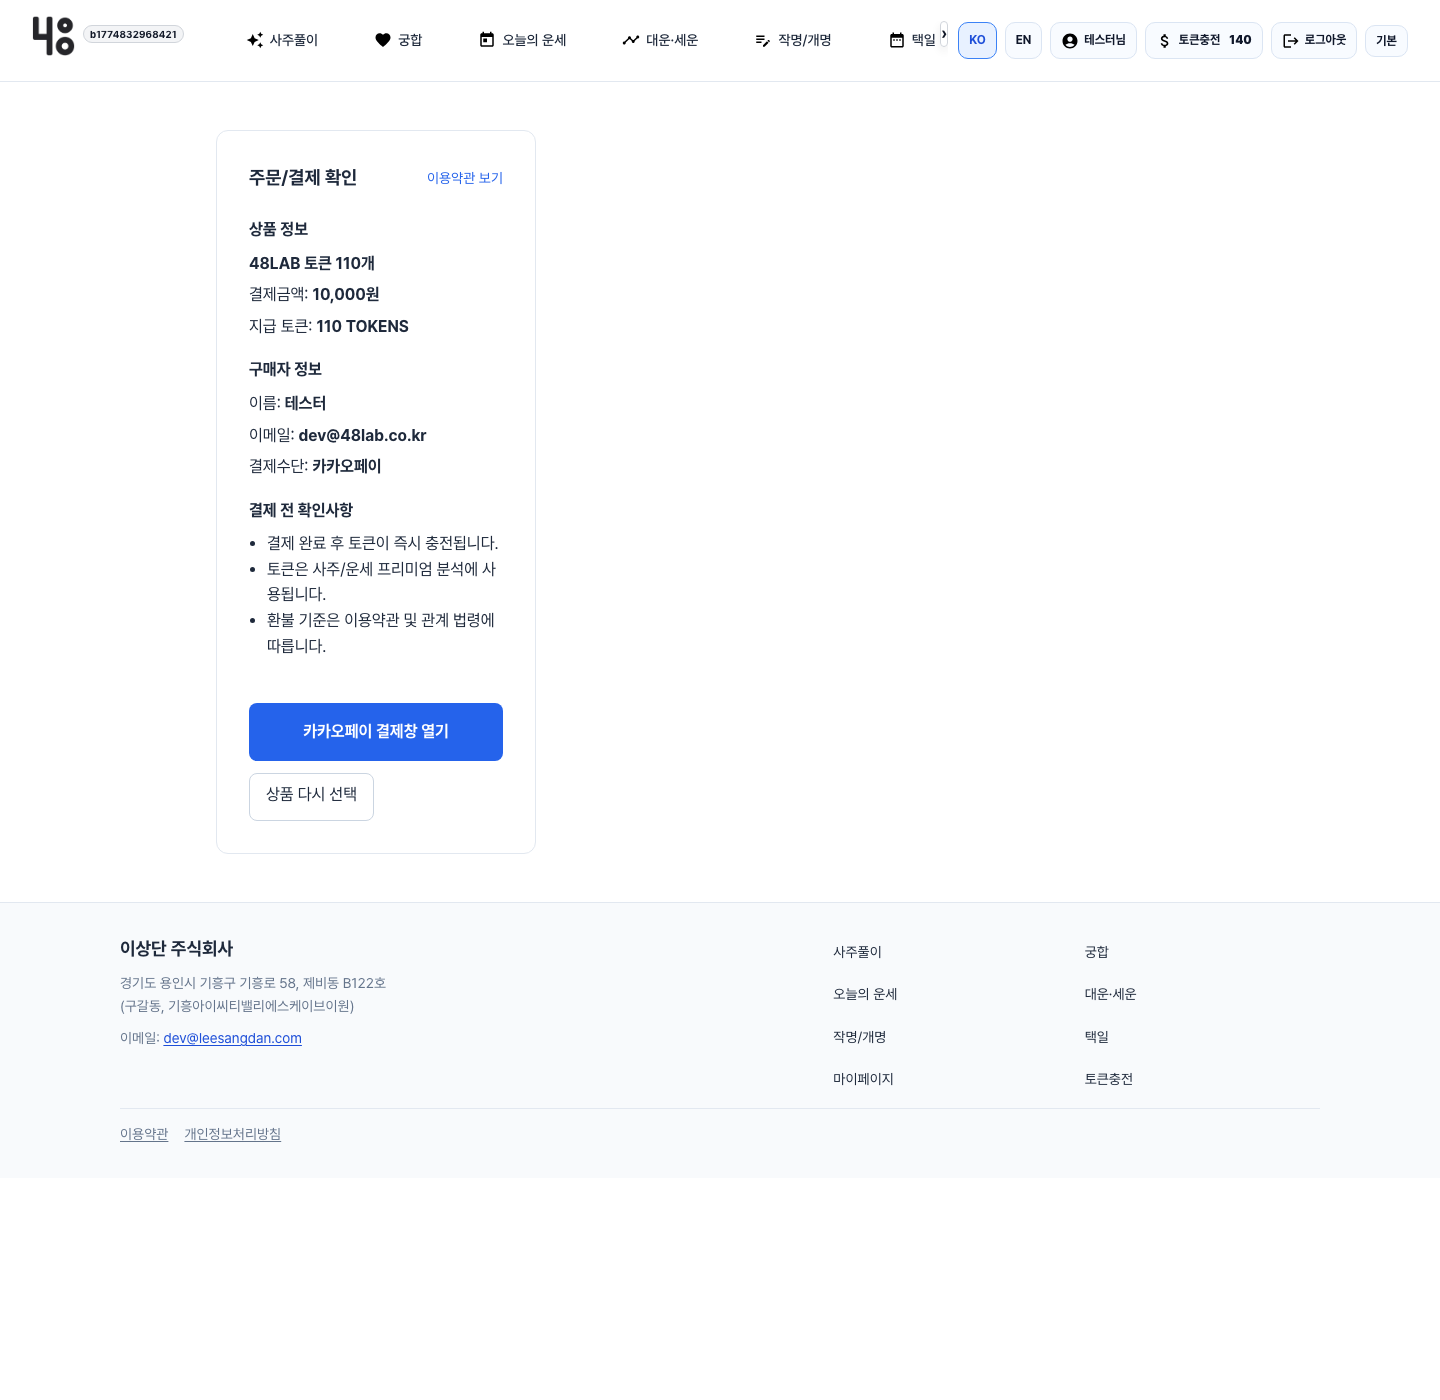
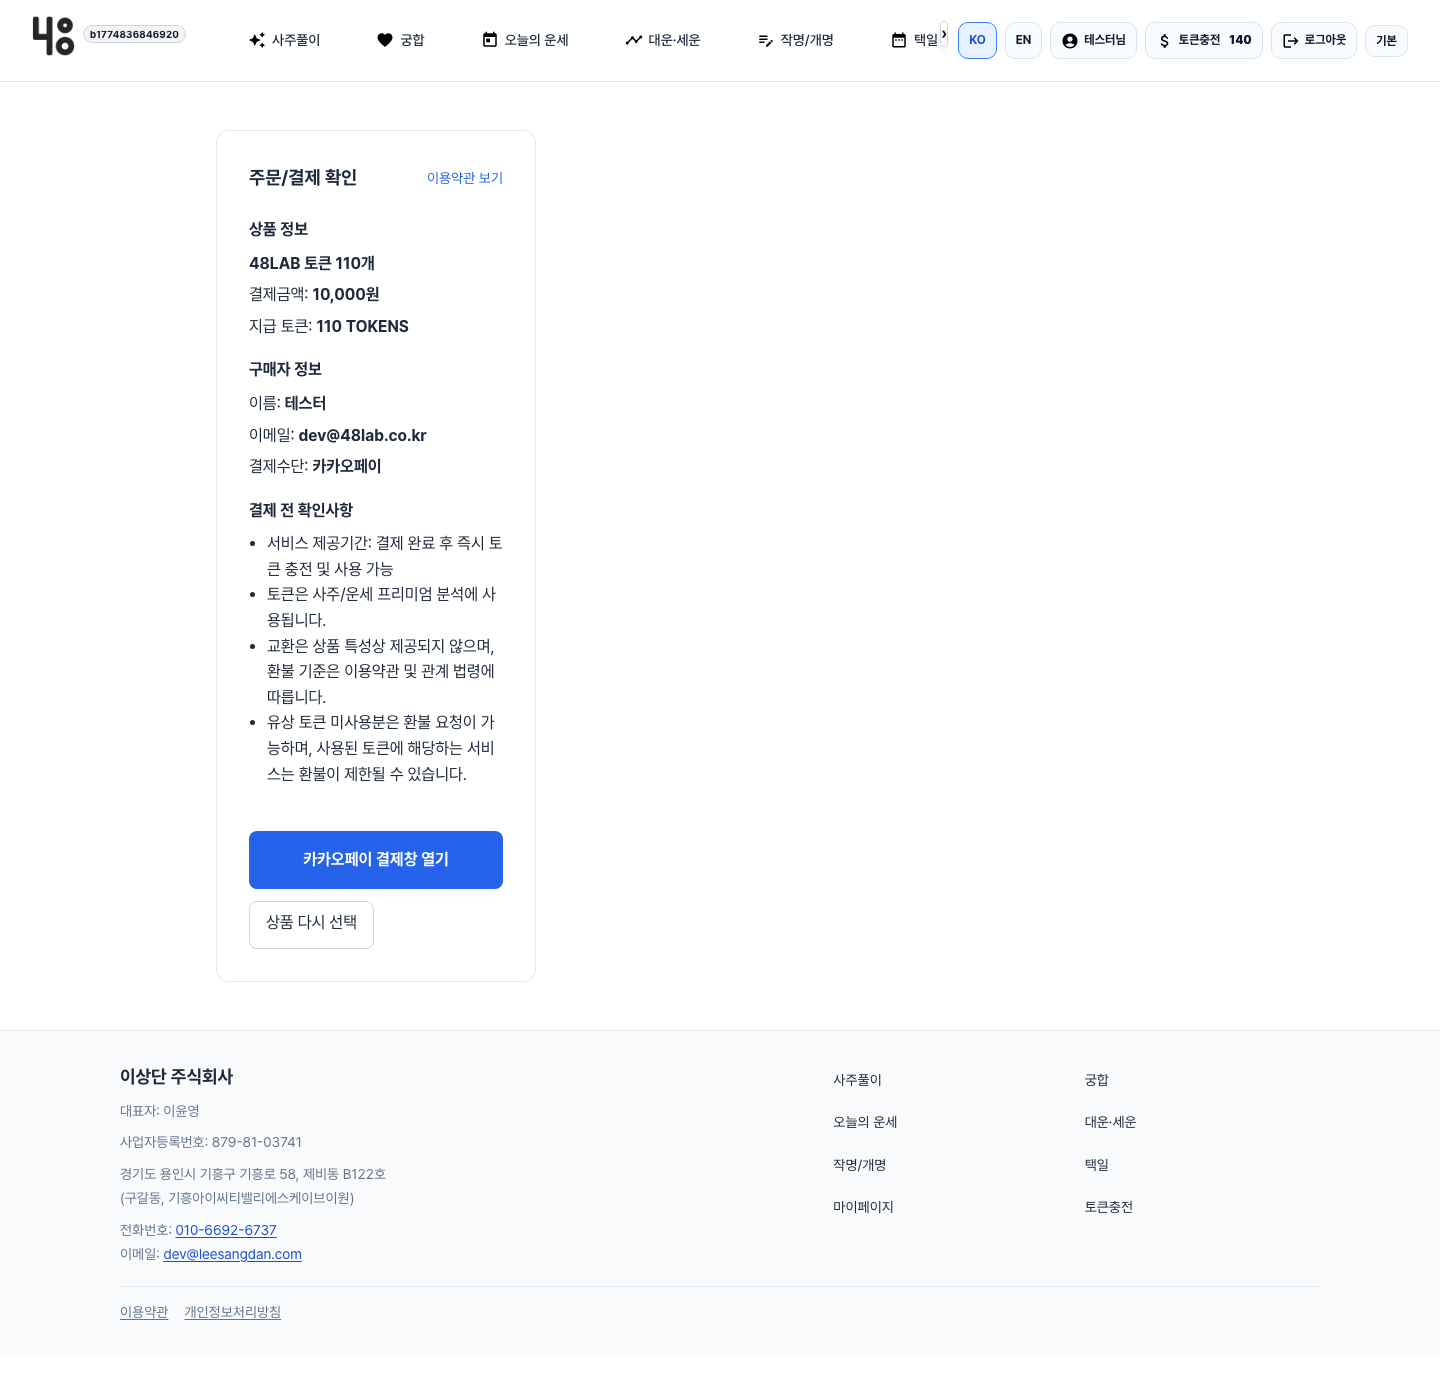
Update footer business info and review details

diff --git a/public/review/kakaopay-review-submission.html b/public/review/kakaopay-review-submission.html
@@ -49,6 +49,22 @@
       <td>48LAB</td>
     </tr>
     <tr>
+      <th>상호명</th>
+      <td>이상단 주식회사</td>
+    </tr>
+    <tr>
+      <th>사업자등록번호</th>
+      <td>879-81-03741</td>
+    </tr>
+    <tr>
+      <th>대표자명</th>
+      <td>이윤영</td>
+    </tr>
+    <tr>
+      <th>전화번호</th>
+      <td>010-6692-6737</td>
+    </tr>
+    <tr>
       <th>사이트 주소</th>
       <td>[운영 도메인 기입]</td>
     </tr>
@@ -82,6 +98,7 @@
   <ul>
     <li>사업자등록증 사본 별첨</li>
     <li>비회원 결제가 불가능하여 심사용 로그인 계정 별도 제공</li>
+    <li>사이트 하단에 상호명, 사업자등록번호, 대표자명, 사업장 주소, 전화번호를 기재했습니다.</li>
   </ul>
 
   <h2>4. 심사 확인 경로</h2>
@@ -126,9 +143,9 @@
   <h2>6. 정책 안내</h2>
   <ul>
     <li>회원은 로그인 후 토큰 충전 결제를 진행합니다.</li>
-    <li>유상 토큰은 결제 완료 후 계정에 즉시 충전됩니다.</li>
+    <li>서비스 제공기간은 결제 완료 후 즉시이며, 토큰 충전과 사용이 바로 가능합니다.</li>
     <li>토큰은 사주/운세 프리미엄 분석 등 유료 디지털 서비스 이용에 사용됩니다.</li>
-    <li>환불 및 청약철회 기준은 사이트 이용약관과 관계 법령에 따라 운영합니다.</li>
+    <li>상품 특성상 교환은 제공되지 않으며, 환불 및 청약철회 기준은 사이트 이용약관과 관계 법령에 따라 운영합니다.</li>
     <li>개인정보처리방침에는 결제 처리 및 위탁 관련 내용을 포함해 고지하고 있습니다.</li>
   </ul>
 </body>

diff --git a/apps/core/utils/i18n.js b/apps/core/utils/i18n.js
@@ -53,6 +53,12 @@ const messages = {
     'theme.switchToLight': '기본 모드로 전환',
     'theme.switchToDark': '다크 모드로 전환',
     'footer.company': '이상단 주식회사',
+    'footer.ceoLabel': '대표자',
+    'footer.ceoName': '이윤영',
+    'footer.businessNumberLabel': '사업자등록번호',
+    'footer.businessNumber': '879-81-03741',
+    'footer.phoneLabel': '전화번호',
+    'footer.phone': '010-6692-6737',
     'footer.addressLine1': '경기도 용인시 기흥구 기흥로 58, 제비동 B122호',
     'footer.addressLine2': '(구갈동, 기흥아이씨티밸리에스케이브이원)',
     'footer.emailLabel': '이메일',
@@ -108,6 +114,12 @@ const messages = {
     'theme.switchToLight': 'Switch to light mode',
     'theme.switchToDark': 'Switch to dark mode',
     'footer.company': 'Leesangdan Co., Ltd.',
+    'footer.ceoLabel': 'CEO',
+    'footer.ceoName': 'Yoonyoung Lee',
+    'footer.businessNumberLabel': 'Business Registration No.',
+    'footer.businessNumber': '879-81-03741',
+    'footer.phoneLabel': 'Phone',
+    'footer.phone': '+82-10-6692-6737',
     'footer.addressLine1': '58 Giheung-ro, Giheung-gu, Yongin-si, Gyeonggi-do, Bldg B, B122',
     'footer.addressLine2': '(Gugal-dong, Giheung ICT Valley SK V1)',
     'footer.emailLabel': 'Email',
